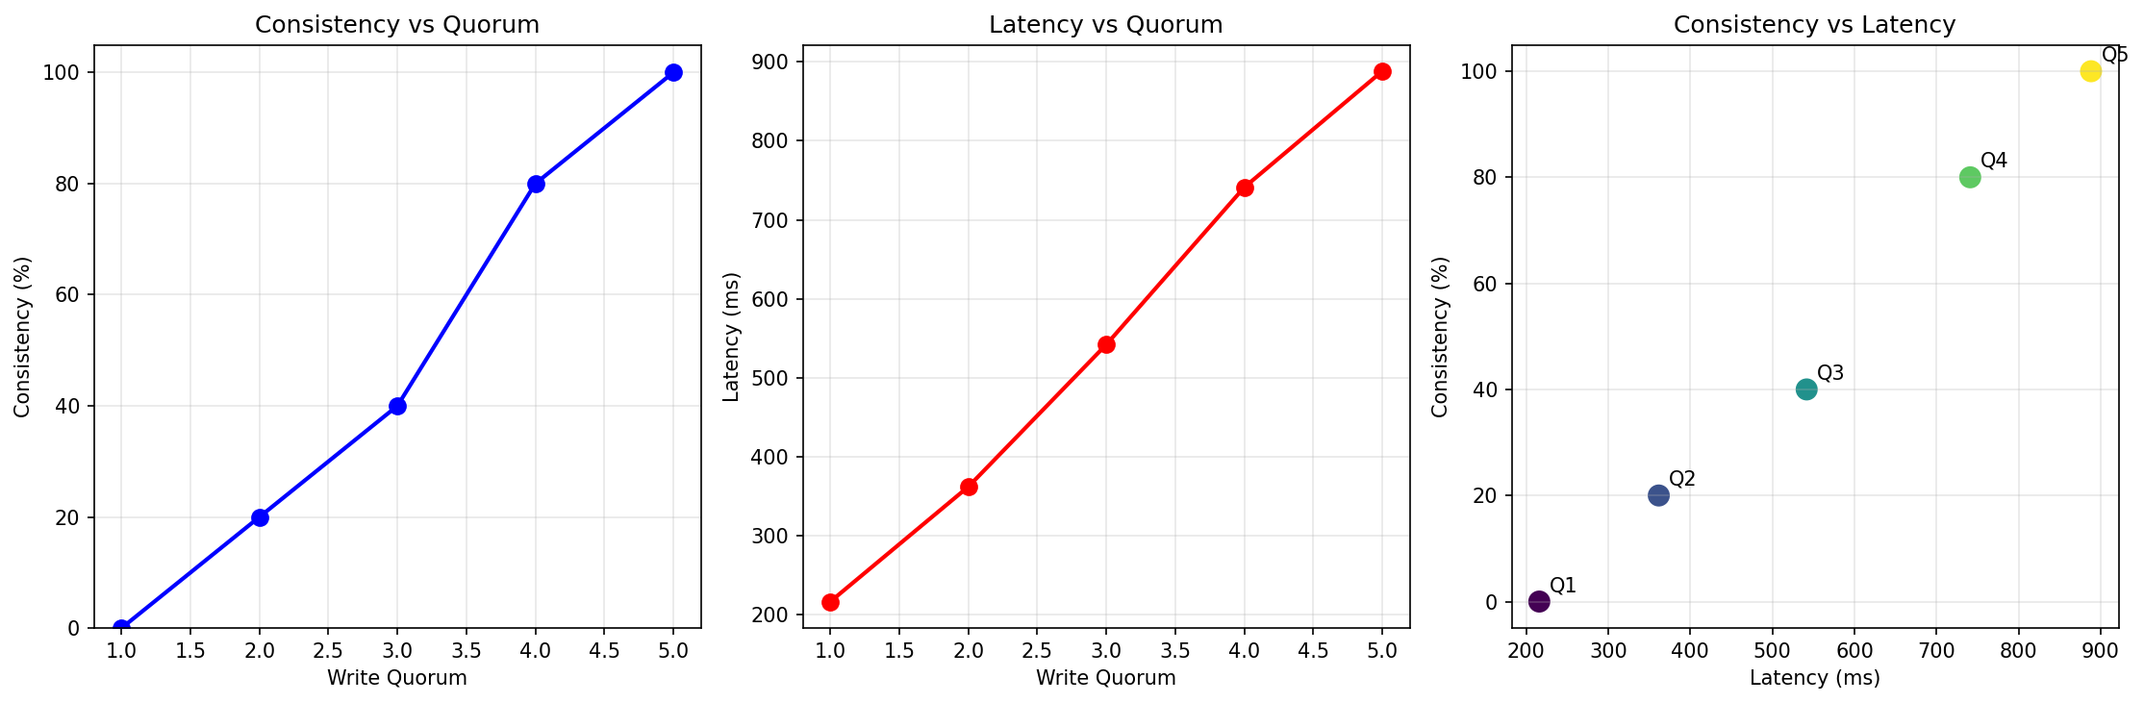
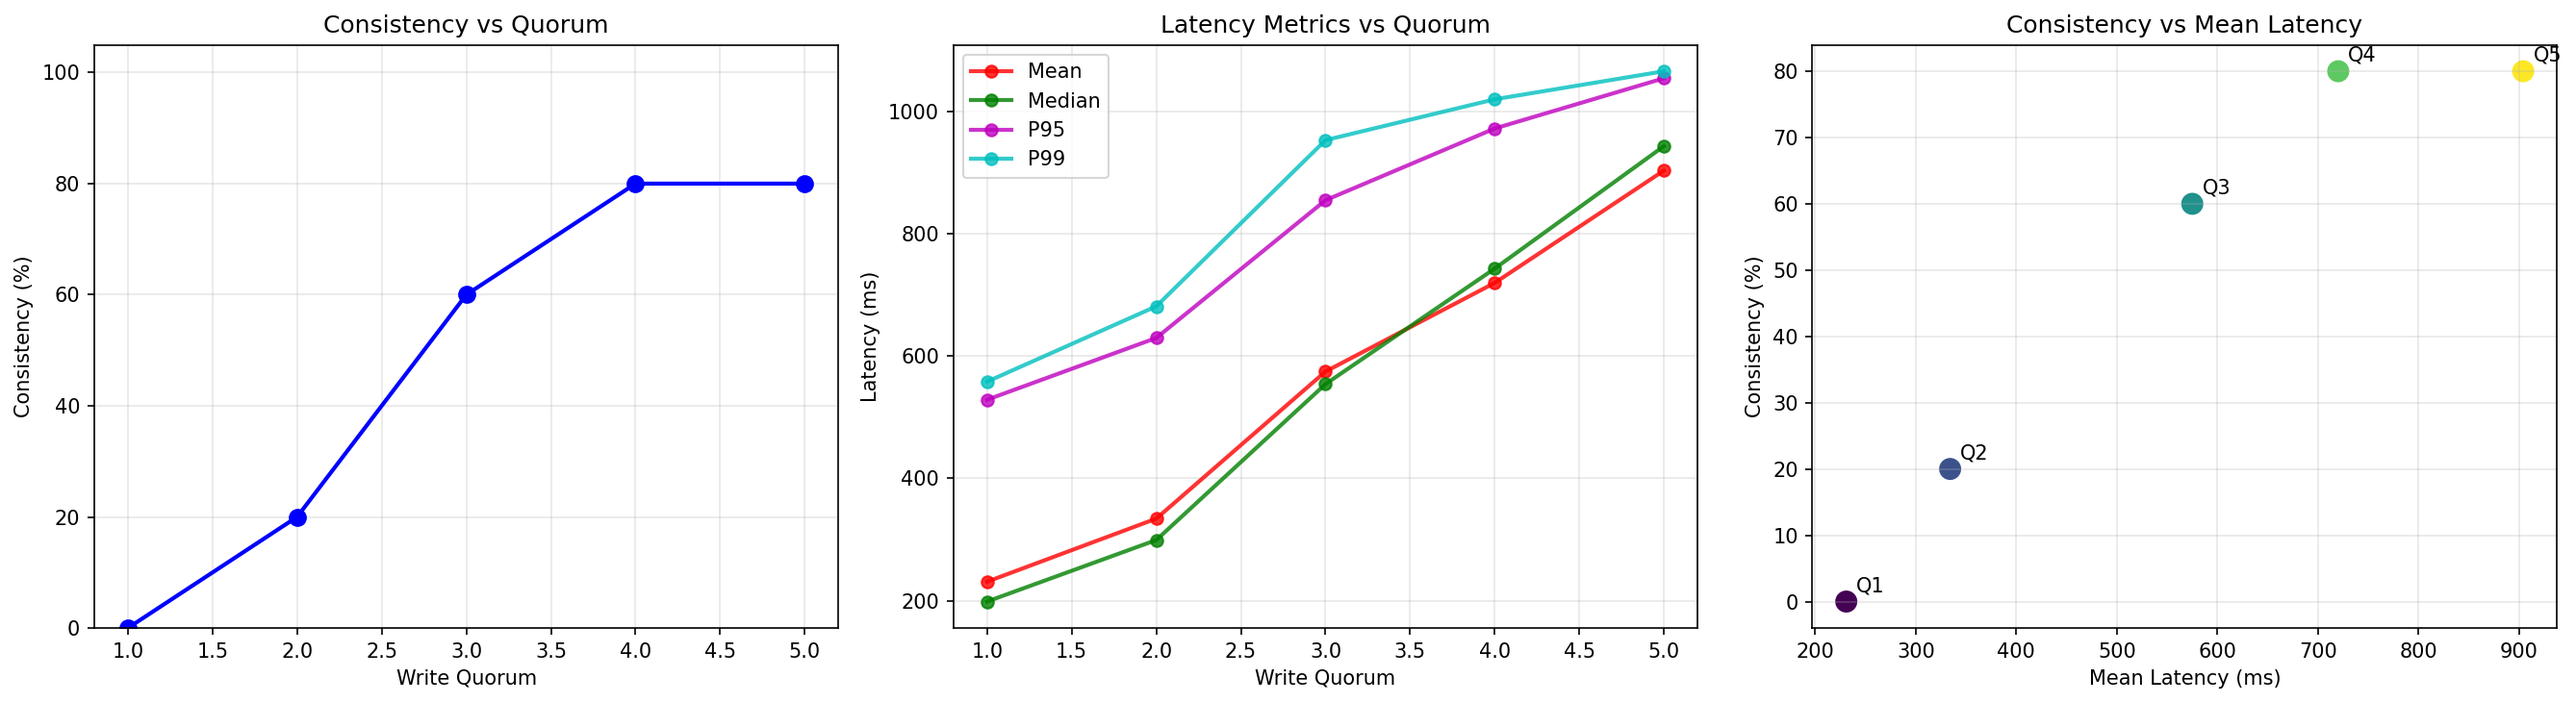
report update

diff --git a/packages/lab4/analysis.py b/packages/lab4/analysis.py
@@ -8,7 +8,8 @@ import numpy as np
 LEADER_URL = "http://localhost:9000"
 FOLLOWER_PORTS = [9001, 9002, 9003, 9004, 9005]
 
-KEYS=11
+KEYS = 10
+
 
 def set_quorum(quorum):
     try:
@@ -78,8 +79,26 @@ def run_test(quorum):
             if success:
                 latencies.append(duration)
 
-    avg_latency = np.mean(latencies) if latencies else 0
-    print(f"Writes: {len(latencies)}/100, avg latency: {avg_latency:.1f}ms")
+    # Calculate latency statistics
+    if latencies:
+        latency_stats = {
+            "mean": np.mean(latencies),
+            "median": np.median(latencies),
+            "p95": np.percentile(latencies, 95),
+            "p99": np.percentile(latencies, 99),
+            "min": np.min(latencies),
+            "max": np.max(latencies),
+        }
+    else:
+        latency_stats = {
+            stat: 0 for stat in ["mean", "median", "p95", "p99", "min", "max"]
+        }
+
+    print(f"Writes: {len(latencies)}/100")
+    print(
+        f"  Mean: {latency_stats['mean']:.1f}ms, Median: {latency_stats['median']:.1f}ms"
+    )
+    print(f"  P95: {latency_stats['p95']:.1f}ms, P99: {latency_stats['p99']:.1f}ms")
 
     time.sleep(4)  # Replication settlement
 
@@ -88,9 +107,10 @@ def run_test(quorum):
 
     return {
         "quorum": quorum,
-        "latency": avg_latency,
+        "latency_stats": latency_stats,
         "accuracy": accuracy,
         "writes": len(latencies),
+        "raw_latencies": latencies,  # Keep raw data for analysis
     }
 
 
@@ -106,11 +126,16 @@ def main():
 
     # Extract data
     quorums = [r["quorum"] for r in results]
-    latencies = [r["latency"] for r in results]
     accuracies = [r["accuracy"] * 100 for r in results]
 
+    # Extract latency statistics
+    mean_latencies = [r["latency_stats"]["mean"] for r in results]
+    median_latencies = [r["latency_stats"]["median"] for r in results]
+    p95_latencies = [r["latency_stats"]["p95"] for r in results]
+    p99_latencies = [r["latency_stats"]["p99"] for r in results]
+
     # Plot results
-    fig, axes = plt.subplots(1, 3, figsize=(15, 5))
+    fig, axes = plt.subplots(1, 3, figsize=(18, 5))
 
     # Accuracy vs Quorum
     axes[0].plot(quorums, accuracies, "bo-", linewidth=2, markersize=8)
@@ -120,23 +145,47 @@ def main():
     axes[0].grid(True, alpha=0.3)
     axes[0].set_ylim(0, 105)
 
-    # Latency vs Quorum
-    axes[1].plot(quorums, latencies, "ro-", linewidth=2, markersize=8)
+    # Latency vs Quorum - Multiple metrics overlapped
+    axes[1].plot(
+        quorums,
+        mean_latencies,
+        "ro-",
+        linewidth=2,
+        markersize=6,
+        label="Mean",
+        alpha=0.8,
+    )
+    axes[1].plot(
+        quorums,
+        median_latencies,
+        "go-",
+        linewidth=2,
+        markersize=6,
+        label="Median",
+        alpha=0.8,
+    )
+    axes[1].plot(
+        quorums, p95_latencies, "mo-", linewidth=2, markersize=6, label="P95", alpha=0.8
+    )
+    axes[1].plot(
+        quorums, p99_latencies, "co-", linewidth=2, markersize=6, label="P99", alpha=0.8
+    )
     axes[1].set_xlabel("Write Quorum")
     axes[1].set_ylabel("Latency (ms)")
-    axes[1].set_title("Latency vs Quorum")
+    axes[1].set_title("Latency Metrics vs Quorum")
     axes[1].grid(True, alpha=0.3)
+    axes[1].legend()
 
-    # Accuracy vs Latency
-    axes[2].scatter(latencies, accuracies, c=quorums, s=100, cmap="viridis")
-    axes[2].set_xlabel("Latency (ms)")
+    # Accuracy vs Latency (using mean latency)
+    axes[2].scatter(mean_latencies, accuracies, c=quorums, s=100, cmap="viridis")
+    axes[2].set_xlabel("Mean Latency (ms)")
     axes[2].set_ylabel("Consistency (%)")
-    axes[2].set_title("Consistency vs Latency")
+    axes[2].set_title("Consistency vs Mean Latency")
     axes[2].grid(True, alpha=0.3)
     for i, q in enumerate(quorums):
         axes[2].annotate(
             f"Q{q}",
-            (latencies[i], accuracies[i]),
+            (mean_latencies[i], accuracies[i]),
             xytext=(5, 5),
             textcoords="offset points",
             fontsize=10,
@@ -149,8 +198,10 @@ def main():
     # Print summary
     print("\nSummary:")
     for r in results:
+        stats = r["latency_stats"]
         print(
-            f"Quorum {r['quorum']}: {r['latency']:.1f}ms latency, {r['accuracy'] * 100:.1f}% consistency"
+            f"Quorum {r['quorum']}: Mean {stats['mean']:.1f}ms, Median {stats['median']:.1f}ms, "
+            f"P95 {stats['p95']:.1f}ms, P99 {stats['p99']:.1f}ms, {r['accuracy'] * 100:.1f}% consistency"
         )
 
 

diff --git a/packages/lab4/README.md b/packages/lab4/README.md
@@ -82,12 +82,36 @@ The analysis tool automatically tests quorum values 1-5, measures write latency,
 
 ![Quorum Analysis Results](analysis_results.png)
 
-The plot shows the trade-off between write latency and consistency:
-- **Quorum 1**: Fastest writes (216ms) but no consistency guarantees (0%)  
-- **Quorum 2**: Moderate latency (362ms) with basic consistency (20%)
-- **Quorum 3**: Balanced approach (542ms) with decent consistency (40%)
-- **Quorum 4**: Higher latency (741ms) but strong consistency (80%)
-- **Quorum 5**: Slowest writes (888ms) but full consistency (100%)
+The plot shows comprehensive latency metrics and their trade-offs with consistency across different quorum sizes:
+
+### Latency Metrics Explained
+
+- **Mean**: Average latency across all write operations - shows typical performance
+- **Median (P50)**: Middle value when latencies are sorted - less affected by outliers  
+- **P95**: 95% of writes complete faster than this time - captures most user experience
+- **P99**: 99% of writes complete faster than this time - shows worst-case scenarios
+
+### Performance Analysis Results
+
+- **Quorum 1**: Fast writes (Mean: 231.0ms, P95: 528.8ms) but no consistency (0%)
+- **Quorum 2**: Moderate performance (Mean: 334.2ms, P95: 629.9ms) with limited consistency (20%)  
+- **Quorum 3**: Balanced approach (Mean: 575.0ms, P95: 855.4ms) with good consistency (60%)
+- **Quorum 4**: Higher latency (Mean: 720.1ms, P95: 972.8ms) with strong consistency (80%)
+- **Quorum 5**: Highest latency (Mean: 904.0ms, P95: 1055.0ms) with strong consistency (80%)
+
+The overlapped latency graph shows how different percentiles behave as quorum size increases.
+
+### Test Methodology
+
+The analysis performs **100 write operations** using **10 concurrent threads** across **10 unique keys**. This creates realistic race conditions where multiple threads may write to the same key simultaneously, simulating real-world concurrent access patterns.
+
+### Understanding Consistency Results
+
+The consistency percentages reflect race conditions inherent in distributed systems under concurrent load. When 10 threads write simultaneously to the same set of keys, they create natural race conditions where multiple operations compete for the same resources. The random network delays of 0-1000ms further complicate this by causing unpredictable write ordering across different nodes in the cluster.
+
+The system uses a last-writer-wins approach, meaning the final value for any key depends on which write operation completes last across all nodes. Higher quorum values reduce but cannot completely eliminate inconsistency under concurrent load because they cannot control the fundamental timing issues that arise when multiple threads access shared data simultaneously.
+
+Alternative conflict resolution approaches could eliminate these race conditions: **versioning** (like DynamoDB's conditional writes where clients must specify expected version numbers) or **serialization** (like Redis where writes are processed sequentially in a single thread). However, both trade performance for consistency.
 
 ## Testing
 

diff --git a/README.md b/README.md
@@ -8,3 +8,6 @@ Multi-threaded server demonstrating concurrency concepts, race conditions, and t
 
 ## [Lab 3: Memory Scramble Game Server](./packages/lab3/)
 Advanced concurrent game server implementing MIT 6.102 PS4 specification. Features real-time multi-player support, comprehensive ADT design, and web interface. Built with Go.
+
+## [Lab 4: Distributed Key-Value Store](./packages/lab4/)
+Distributed key-value store with leader-follower architecture. Features HTTP and RPC communication protocols, data replication. Built with Go.
